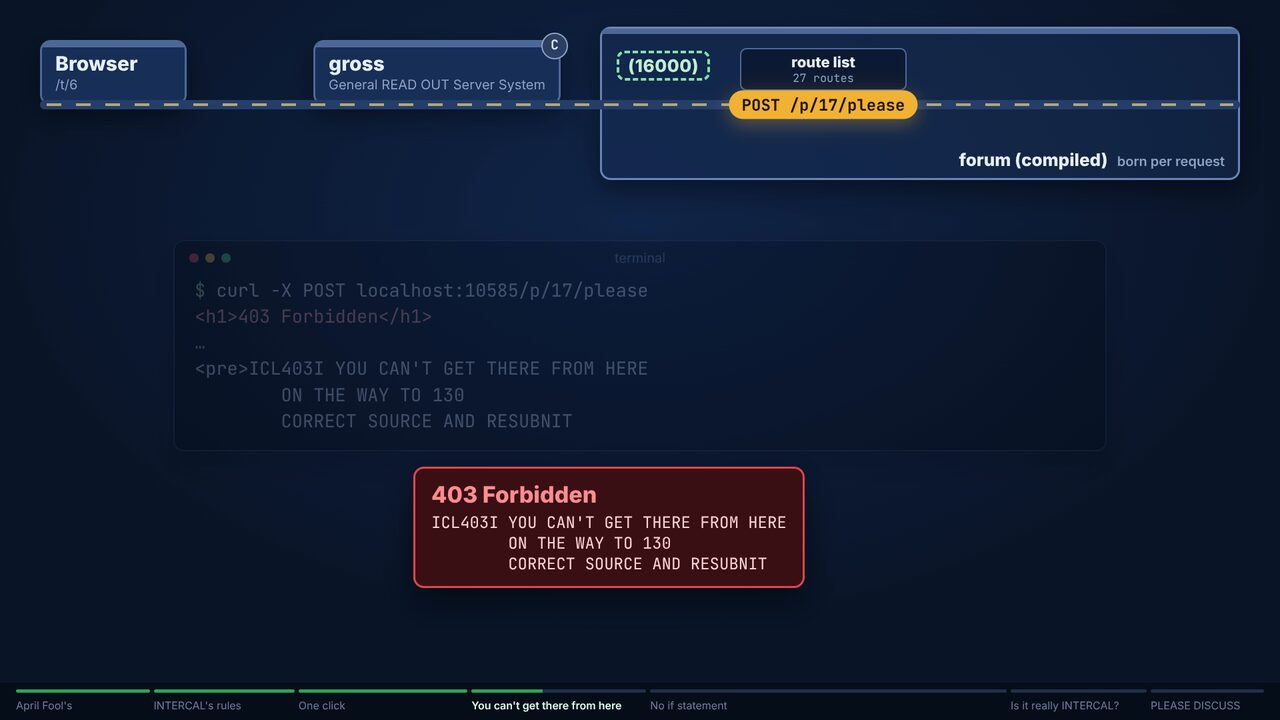
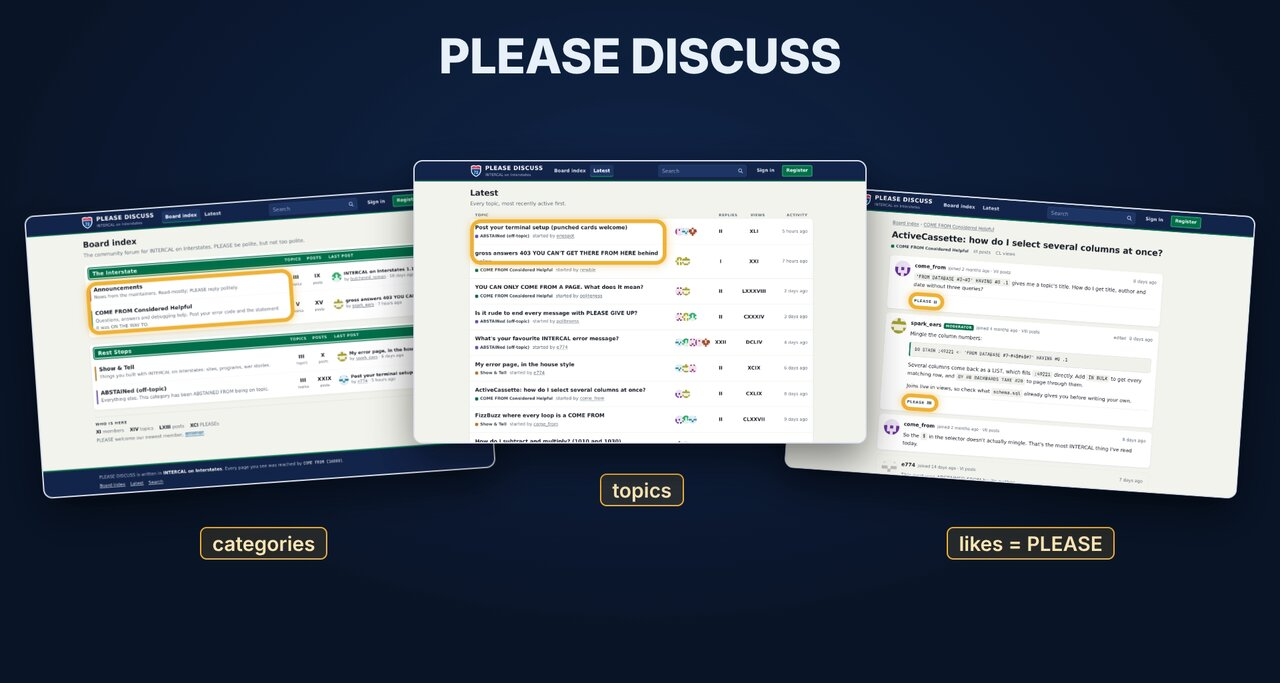
README: forum frame for the video still

diff --git a/README.md b/README.md
@@ -13,7 +13,7 @@ This is version 1.1, and it works. Every example on that page compiles unchanged
 [PLEASE DISCUSS](apps/please-discuss/), a forum somewhere between phpBB and Discourse, is
 written in it.
 
-[![A request refused with ICL403I YOU CAN'T GET THERE FROM HERE, from the walkthrough video](docs/img/video-still.jpg)](https://x.com/theblazehen/status/2116927478086406581)
+[![The PLEASE DISCUSS forum's board index, latest topics and a topic page, from the walkthrough video](docs/img/video-still.jpg)](https://x.com/theblazehen/status/2116927478086406581)
 
 *[Watch the seven-minute walkthrough](https://x.com/theblazehen/status/2116927478086406581): one
 click on the forum, followed through an INTERCAL program.*
